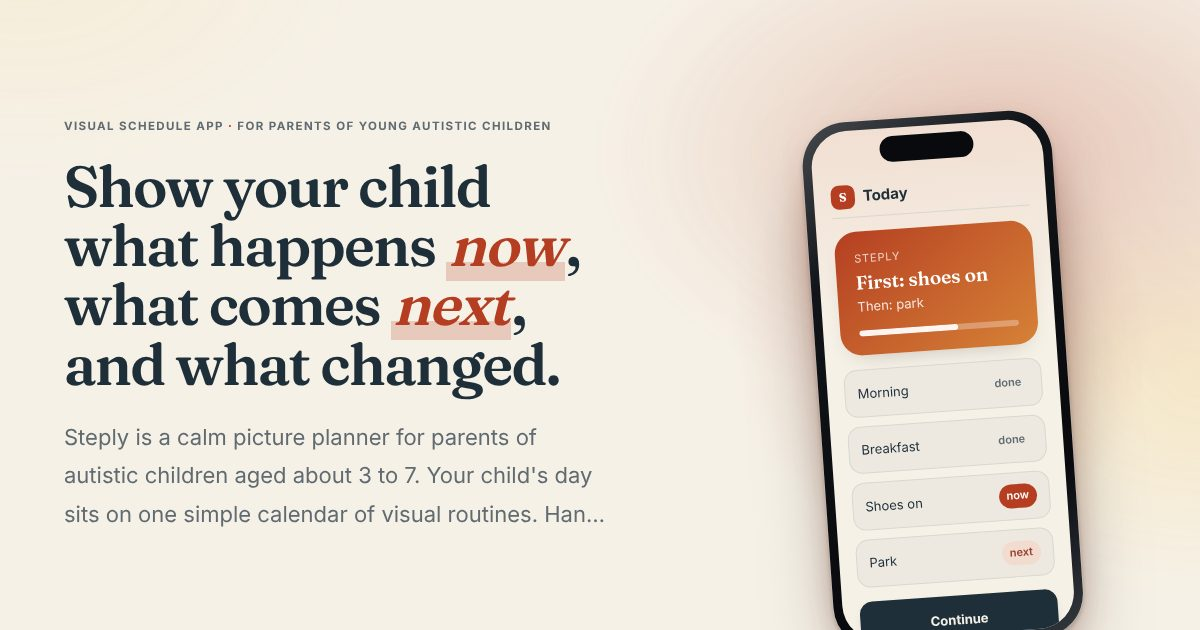
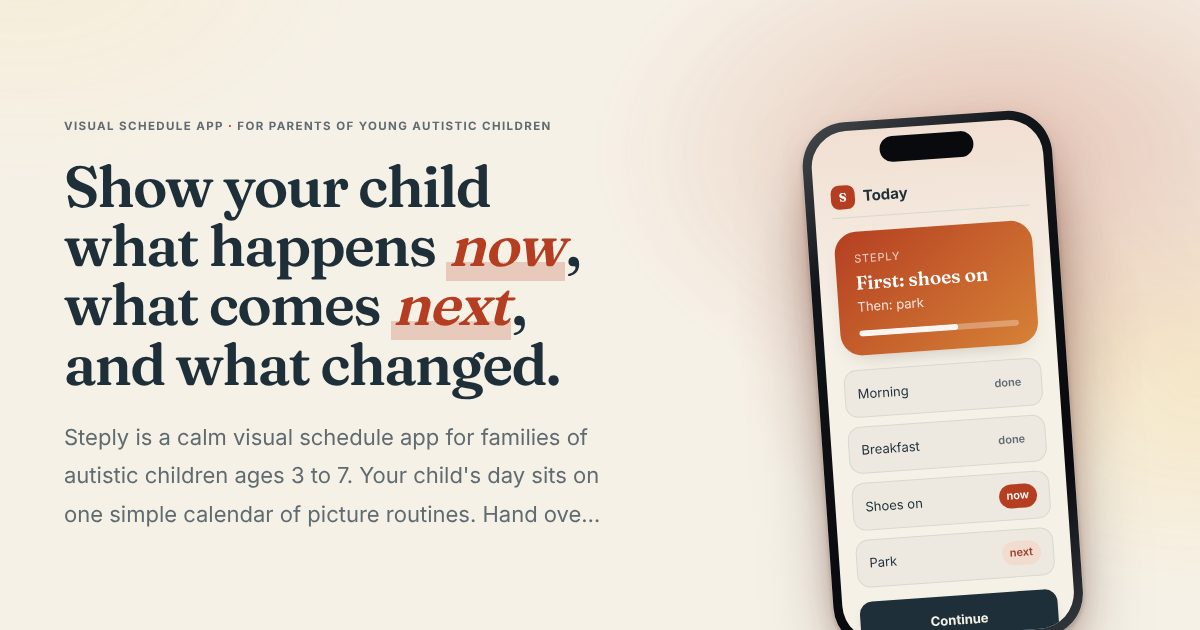
Steply page: apply ChatGPT review (clearer lead, three-step flow, privacy FAQ, softer First/Then guide)
Claude-Session: https://claude.ai/code/session_01BSVzQReT2EKvhQMmVc1ii1

Changed region(s): [[0.1542, 0.6635, 0.4933, 0.8444], [0.0617, 0.7841, 0.1233, 0.8444]]

diff --git a/steply/index.html b/steply/index.html
@@ -24,7 +24,7 @@
 <link rel="stylesheet" href="/assets/coming-soon.css">
 <link rel="icon" href="/assets/favicon.svg" type="image/svg+xml">
 <script type="application/ld+json">{"@context": "https://schema.org", "@type": "WebPage", "name": "Steply: visual schedule app for autistic children, with First/Then", "description": "A calm visual schedule app for parents of autistic children: picture routines on a daily calendar, First/Then boards in seconds and a Plan B when plans change.", "url": "https://nisico.eu/steply/", "inLanguage": "en", "isPartOf": {"@type": "WebSite", "name": "NISICO", "url": "https://nisico.eu/"}, "publisher": {"@type": "Organization", "name": "NISICO TECHNOLOGIES SRL", "url": "https://nisico.eu/", "email": "support@nisico.eu"}, "breadcrumb": {"@type": "BreadcrumbList", "itemListElement": [{"@type": "ListItem", "position": 1, "name": "NISICO", "item": "https://nisico.eu/"}, {"@type": "ListItem", "position": 2, "name": "Apps", "item": "https://nisico.eu/apps/"}, {"@type": "ListItem", "position": 3, "name": "Steply", "item": "https://nisico.eu/steply/"}]}}</script>
-<script type="application/ld+json">{"@context": "https://schema.org", "@type": "FAQPage", "mainEntity": [{"@type": "Question", "name": "Who is Steply for?", "acceptedAnswer": {"@type": "Answer", "text": "Parents of autistic children aged about 3 to 7, starting with routines at home. No diagnosis is needed: any family that uses picture schedules can use it."}}, {"@type": "Question", "name": "Does my child need an account or their own tablet?", "acceptedAnswer": {"@type": "Answer", "text": "No. Your child uses child mode on your phone or tablet, and a grown-up lock keeps settings closed. You do not need an account to start."}}, {"@type": "Question", "name": "What happens when the plan changes?", "acceptedAnswer": {"@type": "Answer", "text": "Swap one card for another, show a single Now card, or pick a ready Plan B such as a rainy day or a place that is closed. Your child sees what happens instead. On a day that falls apart, Reset the day lets you start again calmly, and your routines are kept."}}, {"@type": "Question", "name": "Which phones and tablets will it work on?", "acceptedAnswer": {"@type": "Answer", "text": "Steply is being built for iPhone, iPad and Android phones and tablets. It runs on the device you already have; no special tablet is needed."}}, {"@type": "Question", "name": "Will it cost money?", "acceptedAnswer": {"@type": "Answer", "text": "There will be a free version for everyday routines, with no ads. An optional paid plan with extras is planned, and you will always see the price before you pay anything."}}, {"@type": "Question", "name": "Can I print the pictures?", "acceptedAnswer": {"@type": "Answer", "text": "Yes. You can print picture cards and boards for the fridge, the school bag or a day without screens."}}, {"@type": "Question", "name": "Is my child's data private?", "acceptedAnswer": {"@type": "Answer", "text": "There are no ads and we never sell data. Your own photos stay on your phone, and Steply works without an account."}}]}</script>
+<script type="application/ld+json">{"@context": "https://schema.org", "@type": "FAQPage", "mainEntity": [{"@type": "Question", "name": "Who is Steply for?", "acceptedAnswer": {"@type": "Answer", "text": "Parents of autistic children ages 3 to 7, starting with routines at home. No diagnosis is needed: any family that uses picture schedules can use it."}}, {"@type": "Question", "name": "Does my child need an account or their own tablet?", "acceptedAnswer": {"@type": "Answer", "text": "No. Your child uses child mode on your phone or tablet, and a parent lock keeps settings closed. You do not need an account to start."}}, {"@type": "Question", "name": "What happens when the plan changes?", "acceptedAnswer": {"@type": "Answer", "text": "Swap one card for another, show a single Now card, or pick a ready Plan B such as a rainy day or a place that is closed. Your child sees what happens instead. On a day that falls apart, Reset the day lets you start again calmly, and your routines are kept."}}, {"@type": "Question", "name": "Which phones and tablets will it work on?", "acceptedAnswer": {"@type": "Answer", "text": "Steply is being built for iPhone, iPad and Android phones and tablets. It runs on the device you already have; no special tablet is needed."}}, {"@type": "Question", "name": "Will it cost money?", "acceptedAnswer": {"@type": "Answer", "text": "There will be a free version for everyday routines, with no ads. An optional paid plan with extras is planned, and you will always see the price before you pay anything."}}, {"@type": "Question", "name": "Can I print the pictures?", "acceptedAnswer": {"@type": "Answer", "text": "Yes. You can print picture cards and boards for the fridge, the backpack or a day without screens."}}, {"@type": "Question", "name": "Is my child's data private?", "acceptedAnswer": {"@type": "Answer", "text": "Your child does not need an account, and Steply works without one for you too. Photos you add stay on your phone. There are no ads and we never sell data. If you join the waitlist, we keep only your email, with our form provider, to send the launch email."}}]}</script>
 </head>
 <body class="soft" style="--bg:#F6F1E7;--ink:#1E2F3A;--accent:#B53E22;--accent2:#F2C14E;--display:var(--serif);--scheme:light">
 <a class="skip" href="#main">Skip to content</a>
@@ -39,7 +39,7 @@
   <div class="hero-copy">
     <p class="kicker">Visual schedule app <span>&middot;</span> For parents of young autistic children</p>
     <h1>Show your child what happens <em>now</em>, what comes <em>next</em>, and what changed.</h1>
-    <p class="lead">Steply is a calm picture planner for parents of autistic children aged about 3 to 7. Your child&#x27;s day sits on one simple calendar of visual routines. Hand over the screen and they see one step at a time. When the day goes off plan, a First / Then board or a ready Plan B is a few taps away.</p>
+    <p class="lead">Steply is a calm visual schedule app for families of autistic children ages 3 to 7. Your child&#x27;s day sits on one simple calendar of picture routines. Hand over the screen and they see one step at a time. When the day goes off plan, a First / Then board or a ready Plan B is a few taps away.</p>
     <form class="wl" data-app="Steply" data-slug="steply" novalidate>
   <div class="wl-row">
     <label class="sr" for="em1">Email address</label>
@@ -62,7 +62,7 @@
     <ul class="ps-rows"><li><span>Morning</span><b class="v-done">done</b></li><li><span>Breakfast</span><b class="v-done">done</b></li><li><span>Shoes on</span><b class="v-now">now</b></li><li><span>Park</span><b class="v-next">next</b></li></ul>
     <div class="ps-cta">Continue</div>
   </div>
-</div><div class="chips"><span class="chip c0"><svg class="ico sm" viewBox="0 0 24 24" aria-hidden="true"><rect x="4" y="5" width="16" height="15" rx="2"/><path d="M4 10h16M9 3v4M15 3v4"/></svg>The day, in pictures</span><span class="chip c1"><svg class="ico sm" viewBox="0 0 24 24" aria-hidden="true"><path d="M4 18h5v-5h5V8h6"/><circle cx="4" cy="18" r="1.5"/></svg>One step at a time</span></div></div>
+</div><div class="chips"><span class="chip c0"><svg class="ico sm" viewBox="0 0 24 24" aria-hidden="true"><rect x="4" y="5" width="16" height="15" rx="2"/><path d="M4 10h16M9 3v4M15 3v4"/></svg>Picture schedules for every routine</span><span class="chip c1"><svg class="ico sm" viewBox="0 0 24 24" aria-hidden="true"><path d="M4 18h5v-5h5V8h6"/><circle cx="4" cy="18" r="1.5"/></svg>One step at a time</span></div></div>
 </section>
 
 <section class="sec shots-sec" aria-labelledby="i-h">
@@ -72,12 +72,12 @@
 
 <section class="sec" aria-labelledby="f-h">
   <h2 id="f-h" class="sec-h">What Steply does</h2>
-  <div class="feats"><article class="feat"><svg class="ico" viewBox="0 0 24 24" aria-hidden="true"><rect x="4" y="5" width="16" height="15" rx="2"/><path d="M4 10h16M9 3v4M15 3v4"/></svg><h3>The day, in pictures</h3><p>Morning, school, bedtime: picture routines on one calm daily calendar. Hold a card and drag it to a new time.</p></article><article class="feat"><svg class="ico" viewBox="0 0 24 24" aria-hidden="true"><path d="M4 18h5v-5h5V8h6"/><circle cx="4" cy="18" r="1.5"/></svg><h3>One step at a time</h3><p>Your child sees one big picture and one Done button. Step names can be read aloud.</p></article><article class="feat"><svg class="ico" viewBox="0 0 24 24" aria-hidden="true"><path d="M4 8h13l-3-3M20 16H7l3 3"/></svg><h3>First / Then in seconds</h3><p>Pick two pictures, tap Show, and your child sees what happens now and what comes next.</p></article><article class="feat"><svg class="ico" viewBox="0 0 24 24" aria-hidden="true"><path d="M20 11a8 8 0 1 0-2.3 5.7"/><path d="M20 5v6h-6"/></svg><h3>A Plan B for hard days</h3><p>Rain, a closed place, a sick day: your child sees what happens instead. Swap one card or use a ready Plan B, and your routines stay safe.</p></article></div>
+  <div class="feats"><article class="feat"><svg class="ico" viewBox="0 0 24 24" aria-hidden="true"><rect x="4" y="5" width="16" height="15" rx="2"/><path d="M4 10h16M9 3v4M15 3v4"/></svg><h3>Picture schedules for every routine</h3><p>Morning, school, bedtime: picture routines on one calm daily calendar. Hold a card and drag it to a new time.</p></article><article class="feat"><svg class="ico" viewBox="0 0 24 24" aria-hidden="true"><path d="M4 18h5v-5h5V8h6"/><circle cx="4" cy="18" r="1.5"/></svg><h3>One step at a time</h3><p>Your child sees one big picture and one Done button. Step names can be read aloud.</p></article><article class="feat"><svg class="ico" viewBox="0 0 24 24" aria-hidden="true"><path d="M4 8h13l-3-3M20 16H7l3 3"/></svg><h3>First / Then in seconds</h3><p>Pick two pictures, tap Show, and your child sees what happens now and what comes next.</p></article><article class="feat"><svg class="ico" viewBox="0 0 24 24" aria-hidden="true"><path d="M20 11a8 8 0 1 0-2.3 5.7"/><path d="M20 5v6h-6"/></svg><h3>A Plan B for hard days</h3><p>Rain, a closed place, a sick day: your child sees what happens instead. Swap one card or use a ready Plan B; your usual routines are kept.</p></article></div>
 </section>
 
 <section class="sec" aria-labelledby="s-h">
   <h2 id="s-h" class="sec-h">How it works</h2>
-  <ol class="steps"><li><span class="n">1</span><h3>Pick a ready routine</h3><p>Start from ready-made routines for home, school and outings. Change any word or picture.</p></li><li><span class="n">2</span><h3>Add your own photos</h3><p>Your child&#x27;s own toothbrush, shoes and car. Photos stay on your phone.</p></li><li><span class="n">3</span><h3>Hand over the screen</h3><p>Child mode shows one step at a time. A grown-up lock keeps everything else closed.</p></li></ol>
+  <ol class="steps"><li><span class="n">1</span><h3>Set up the routine</h3><p>Start from a ready-made routine for home, school or outings and add photos of your child&#x27;s own things. Change any word or picture.</p></li><li><span class="n">2</span><h3>Show one step at a time</h3><p>Hand over the screen. Child mode shows one big step and a Done button; a parent lock keeps everything else closed.</p></li><li><span class="n">3</span><h3>Adjust when plans change</h3><p>Swap a card, show a First / Then, or pick a ready Plan B. Your child sees what happens instead.</p></li></ol>
 </section>
 
 <section class="sec honest" aria-labelledby="n-h">
@@ -90,7 +90,7 @@
 
 <section class="sec" aria-labelledby="q-h">
   <h2 id="q-h" class="sec-h">Questions</h2>
-  <div class="faq"><details><summary>Who is Steply for?</summary><p>Parents of autistic children aged about 3 to 7, starting with routines at home. No diagnosis is needed: any family that uses picture schedules can use it.</p></details><details><summary>Does my child need an account or their own tablet?</summary><p>No. Your child uses child mode on your phone or tablet, and a grown-up lock keeps settings closed. You do not need an account to start.</p></details><details><summary>What happens when the plan changes?</summary><p>Swap one card for another, show a single Now card, or pick a ready Plan B such as a rainy day or a place that is closed. Your child sees what happens instead. On a day that falls apart, Reset the day lets you start again calmly, and your routines are kept.</p></details><details><summary>Which phones and tablets will it work on?</summary><p>Steply is being built for iPhone, iPad and Android phones and tablets. It runs on the device you already have; no special tablet is needed.</p></details><details><summary>Will it cost money?</summary><p>There will be a free version for everyday routines, with no ads. An optional paid plan with extras is planned, and you will always see the price before you pay anything.</p></details><details><summary>Can I print the pictures?</summary><p>Yes. You can print picture cards and boards for the fridge, the school bag or a day without screens.</p></details><details><summary>Is my child&#x27;s data private?</summary><p>There are no ads and we never sell data. Your own photos stay on your phone, and Steply works without an account.</p></details></div>
+  <div class="faq"><details><summary>Who is Steply for?</summary><p>Parents of autistic children ages 3 to 7, starting with routines at home. No diagnosis is needed: any family that uses picture schedules can use it.</p></details><details><summary>Does my child need an account or their own tablet?</summary><p>No. Your child uses child mode on your phone or tablet, and a parent lock keeps settings closed. You do not need an account to start.</p></details><details><summary>What happens when the plan changes?</summary><p>Swap one card for another, show a single Now card, or pick a ready Plan B such as a rainy day or a place that is closed. Your child sees what happens instead. On a day that falls apart, Reset the day lets you start again calmly, and your routines are kept.</p></details><details><summary>Which phones and tablets will it work on?</summary><p>Steply is being built for iPhone, iPad and Android phones and tablets. It runs on the device you already have; no special tablet is needed.</p></details><details><summary>Will it cost money?</summary><p>There will be a free version for everyday routines, with no ads. An optional paid plan with extras is planned, and you will always see the price before you pay anything.</p></details><details><summary>Can I print the pictures?</summary><p>Yes. You can print picture cards and boards for the fridge, the backpack or a day without screens.</p></details><details><summary>Is my child&#x27;s data private?</summary><p>Your child does not need an account, and Steply works without one for you too. Photos you add stay on your phone. There are no ads and we never sell data. If you join the waitlist, we keep only your email, with our form provider, to send the launch email.</p></details></div>
 </section>
 
 <section class="sec" aria-labelledby="g-h">

diff --git a/steply/guides/first-then-board/index.html b/steply/guides/first-then-board/index.html
@@ -38,15 +38,15 @@
   <h1>First/Then board: what it is and how to use it with your child</h1>
   <p class="a-lead">What a First/Then board is, how to make one on paper or a phone, how to use it step by step, and the common mistakes that make it stop working.</p>
   <p class="a-meta">By the Steply team &middot; Updated <time datetime="2026-11-02">2026-11-02</time></p>
-  <article class="prose"><p>A First/Then board is a simple visual support with two pictures side by side: on the left, what your child does first; on the right, what happens then. "First shoes, then park." It shows a young or autistic child, in a way they can see rather than only hear, that the less-wanted task is short and that something they want comes right after. To use it well, put the less-preferred task first and something your child really wants second, say only a few words, follow through every time, and remove the first card as soon as it is done.</p>
+  <article class="prose"><p>A First/Then board is a simple visual support with two pictures side by side. The First picture shows what is happening now; the Then picture shows what is planned next, for example "First shoes, then park." It makes the order of everyday activities visible, so your child can see it instead of only hearing it. It tends to work best when the first card is short, the second is something your child looks forward to, the pictures and words are ones your child understands, and the "then" really happens.</p>
 
 <p>First/Then is one of the visual schedule types described in the <a href="https://afirm.fpg.unc.edu/wp-content/uploads/Visual-Supports-Brief-Packet.pdf">AFIRM visual supports module</a> from the University of North Carolina: "the sequencing of two events to help a student understand what comes next." Visual supports as a whole are recognized as an evidence-based practice for autistic children in the <a href="https://ncaep.fpg.unc.edu/wp-content/uploads/EBP-Report-2020.pdf">2020 NCAEP review</a>. Below is how to make one, how to use it day to day, and the mistakes that make it stop working.</p>
 
 <h2>Why a First/Then board helps</h2>
 <ul>
-<li><strong>It answers "what next?"</strong> Many autistic children find the unknown hard. A <a href="https://pubmed.ncbi.nlm.nih.gov/32564625/">2020 review</a> found a consistent link between anxiety and finding uncertainty hard to tolerate in autistic people. A board makes the next moment certain.</li>
+<li><strong>It answers "what next?"</strong> Many autistic children find the unknown hard. A <a href="https://pubmed.ncbi.nlm.nih.gov/32564625/">2020 review</a> found a consistent link between anxiety and finding uncertainty hard to tolerate in autistic people. A board shows what comes next.</li>
 <li><strong>It lasts longer than words.</strong> A spoken instruction is gone in a second; a picture stays there while your child is thinking.</li>
-<li><strong>It shows the end of the hard part.</strong> The "then" card tells your child the task is not forever.</li>
+<li><strong>It shows the end of the hard part.</strong> The "then" card shows that the hard part has an end.</li>
 <li><strong>It is fast.</strong> Two cards take seconds to set up, which makes it easy to use in the middle of the day.</li>
 </ul>
 
@@ -61,13 +61,15 @@
 <h3>On a phone or tablet</h3>
 <p>A phone is handy when you are out, or when you need a picture you do not have on paper. You can take a photo of the real thing, such as the shop entrance or your car, in a few seconds. In a <a href="https://pubmed.ncbi.nlm.nih.gov/28452230/">study comparing book and tablet schedules</a>, children learned at similar speeds with both, and preferences varied from child to child, so use whichever works for yours.</p>
 
+<div class="callout">Want to make a First/Then board on your phone? Steply is being built to let you pick two pictures or your own photos and show a simple First/Then on your child's screen. <a href="/steply/#i-h">See what Steply looks like</a>.</div>
+
 <h2>How to use it, step by step</h2>
 <ol>
-<li><strong>Get your child's attention first.</strong> Go to them, get down to their level, and hold the board where they can see it.</li>
+<li><strong>Bring the board to your child.</strong> Hold it where they can see it, in the way that works for them.</li>
 <li><strong>Point and say it short.</strong> Point to each card: "First shoes. Then park." Avoid long explanations.</li>
-<li><strong>Help with the first task as needed.</strong> Guide, model or do it together. The board is not a test.</li>
+<li><strong>Do the first task together if needed.</strong> Show, help or do it side by side. The board is support, not a test, and it is fine to adapt it to your child.</li>
 <li><strong>Mark it done.</strong> Remove or flip the "first" card, or let your child tap Done. Seeing it disappear matters.</li>
-<li><strong>Deliver the "then" straight away.</strong> If the park was promised, go to the park. Keeping this promise is what gives the board its meaning.</li>
+<li><strong>Keep the board true.</strong> If the park is on the board, go to the park. If plans change, update the Then picture first and show the change in a way your child understands.</li>
 </ol>
 <div class="callout">Only put on the "then" card something you can actually give right after. A "then" that does not happen teaches your child that the board cannot be trusted.</div>
 
@@ -99,9 +101,10 @@
 <p>Once your child knows the board, you can add a third card ("first, then, then"), and later move to a full routine schedule. Our guide on <a href="/steply/guides/how-to-make-a-visual-schedule-for-an-autistic-child/">how to make a visual schedule for an autistic child</a> explains that next step.</p>
 
 <h2>How Steply helps</h2>
-<p>In Steply, a First/Then board takes a few taps: pick two pictures from the built-in set or take a photo, tap Show, and your child sees "First" with a big Done button and "Then" waiting underneath. The step names can be read aloud, recent boards are one tap away on your Today screen, and you can print cards for the fridge. Steply is a tool for showing the plan, not therapy. Join the waitlist below to hear when it launches.</p></article>
+<p>In Steply, a First/Then board takes a few taps: pick two pictures from the built-in set or take a photo, tap Show, and your child sees "First" with a big Done button and "Then" waiting underneath. The step names can be read aloud, recent boards are one tap away on your Today screen, and you can print cards for the fridge. Steply is a tool for showing the plan, not therapy. Join the waitlist below to hear when it launches.</p>
+<p>The research linked in this guide is about visual supports in general. None of the organizations or authors cited has reviewed or endorsed Steply.</p></article>
   <section class="sources"><h2>Sources</h2><ol><li><a href="https://afirm.fpg.unc.edu/wp-content/uploads/Visual-Supports-Brief-Packet.pdf" rel="noopener">AFIRM (UNC): Visual Supports brief packet</a></li><li><a href="https://ncaep.fpg.unc.edu/wp-content/uploads/EBP-Report-2020.pdf" rel="noopener">NCAEP (UNC Frank Porter Graham): Evidence-Based Practices for Children, Youth, and Young Adults with Autism, 2020</a></li><li><a href="https://pubmed.ncbi.nlm.nih.gov/32564625/" rel="noopener">Jenkinson, Milne &amp; Thompson (2020): Intolerance of uncertainty and anxiety in autism, systematic review and meta-analysis, Autism</a></li><li><a href="https://pubmed.ncbi.nlm.nih.gov/28452230/" rel="noopener">Giles &amp; Markham (2017): Comparing book- and tablet-based picture activity schedules, Behavior Modification</a></li><li><a href="https://pubmed.ncbi.nlm.nih.gov/19949517/" rel="noopener">Waters, Lerman &amp; Hovanetz (2009): Visual schedules and transition-related problem behavior, J Appl Behav Anal</a></li></ol></section>
-  <section class="a-cta" id="join"><h2>Steply: Show your child what happens now, what comes next, and what changed.</h2><p>Steply is a calm picture planner for parents of autistic children aged about 3 to 7. Your child&#x27;s day sits on one simple calendar of visual routines. Hand over the screen and they see one step at a time. When the day goes off plan, a First / Then board or a ready Plan B is a few taps away.</p><form class="wl" data-app="Steply" data-slug="steply" novalidate>
+  <section class="a-cta" id="join"><h2>Steply: Show your child what happens now, what comes next, and what changed.</h2><p>Steply is a calm visual schedule app for families of autistic children ages 3 to 7. Your child&#x27;s day sits on one simple calendar of picture routines. Hand over the screen and they see one step at a time. When the day goes off plan, a First / Then board or a ready Plan B is a few taps away.</p><form class="wl" data-app="Steply" data-slug="steply" novalidate>
   <div class="wl-row">
     <label class="sr" for="em3">Email address</label>
     <input id="em3" type="email" name="email" autocomplete="email" inputmode="email" placeholder="you@example.com" required aria-describedby="note3 err3">

diff --git a/steply/guides/how-to-make-a-visual-schedule-for-an-autistic-child/index.html b/steply/guides/how-to-make-a-visual-schedule-for-an-autistic-child/index.html
@@ -112,9 +112,10 @@
 <p>If routines regularly end in long meltdowns, self-injury, or your child seems in pain or very anxious, talk to your child's doctor, occupational therapist, speech-language therapist or behavior specialist. A visual schedule can support their plan, but it does not replace it.</p>
 
 <h2>How Steply helps</h2>
-<p>We are building Steply so parents can do all of the above on a phone in a few minutes: start from a ready-made routine, swap in your own photos, and hand over a calm child screen that shows one step at a time with a Done button. Pictures can be printed for the fridge too. Steply is a tool for showing the plan; it is not therapy and does not promise results. If that sounds useful, join the waitlist below.</p></article>
+<p>We are building Steply so parents can do all of the above on a phone in a few minutes: start from a ready-made routine, swap in your own photos, and hand over a calm child screen that shows one step at a time with a Done button. Pictures can be printed for the fridge too. Steply is a tool for showing the plan; it is not therapy and does not promise results. If that sounds useful, join the waitlist below.</p>
+<p>The research linked in this guide is about visual supports in general. None of the organizations or authors cited has reviewed or endorsed Steply.</p></article>
   <section class="sources"><h2>Sources</h2><ol><li><a href="https://ncaep.fpg.unc.edu/wp-content/uploads/EBP-Report-2020.pdf" rel="noopener">NCAEP (UNC Frank Porter Graham): Evidence-Based Practices for Children, Youth, and Young Adults with Autism, 2020</a></li><li><a href="https://www.nice.org.uk/guidance/cg170/chapter/Recommendations" rel="noopener">NICE CG170: Autism spectrum disorder in under 19s, support and management, recommendations</a></li><li><a href="https://afirm.fpg.unc.edu/wp-content/uploads/Visual-Supports-Brief-Packet.pdf" rel="noopener">AFIRM (UNC): Visual Supports brief packet</a></li><li><a href="https://link.springer.com/article/10.1007/s10803-014-2201-z" rel="noopener">Knight, Sartini &amp; Spriggs (2015): Evaluating visual activity schedules as evidence-based practice, J Autism Dev Disord</a></li><li><a href="https://pubmed.ncbi.nlm.nih.gov/24916452/" rel="noopener">Hartley &amp; Allen (2015): Iconicity influences how minimally verbal children with autism use pictures as symbols, Autism</a></li><li><a href="https://pubmed.ncbi.nlm.nih.gov/28452230/" rel="noopener">Giles &amp; Markham (2017): Comparing book- and tablet-based picture activity schedules, Behavior Modification</a></li><li><a href="https://pubmed.ncbi.nlm.nih.gov/40392102/" rel="noopener">Hammond et al. (2025): Systematic review of digital activity schedule use in autism and intellectual disability, J Intellect Dev Disabil</a></li><li><a href="https://pmc.ncbi.nlm.nih.gov/articles/PMC1297722/" rel="noopener">MacDuff, Krantz &amp; McClannahan (1993): Teaching children with autism to use photographic activity schedules, J Appl Behav Anal</a></li></ol></section>
-  <section class="a-cta" id="join"><h2>Steply: Show your child what happens now, what comes next, and what changed.</h2><p>Steply is a calm picture planner for parents of autistic children aged about 3 to 7. Your child&#x27;s day sits on one simple calendar of visual routines. Hand over the screen and they see one step at a time. When the day goes off plan, a First / Then board or a ready Plan B is a few taps away.</p><form class="wl" data-app="Steply" data-slug="steply" novalidate>
+  <section class="a-cta" id="join"><h2>Steply: Show your child what happens now, what comes next, and what changed.</h2><p>Steply is a calm visual schedule app for families of autistic children ages 3 to 7. Your child&#x27;s day sits on one simple calendar of picture routines. Hand over the screen and they see one step at a time. When the day goes off plan, a First / Then board or a ready Plan B is a few taps away.</p><form class="wl" data-app="Steply" data-slug="steply" novalidate>
   <div class="wl-row">
     <label class="sr" for="em3">Email address</label>
     <input id="em3" type="email" name="email" autocomplete="email" inputmode="email" placeholder="you@example.com" required aria-describedby="note3 err3">

diff --git a/steply/guides/autistic-child-change-of-plans/index.html b/steply/guides/autistic-child-change-of-plans/index.html
@@ -102,9 +102,10 @@
 <p>If changes often lead to long meltdowns, self-injury or very high anxiety, or if your child's distress is growing, speak with your child's doctor, an occupational therapist, a psychologist or a behavior specialist. They can look at what drives the distress for your child and build a plan that fits. Visual supports can be part of that plan, but they are not a treatment on their own.</p>
 
 <h2>How Steply helps</h2>
-<p>Steply was designed around this moment. When the plan changes, you can swap one card for another and your child sees the new card in the same place, show a single "Now" card, or pick a ready Plan B such as "Rainy day" or "Place is closed". If the whole day goes wrong, "Reset the day" starts again calmly without losing your routines. It is a tool for showing the plan, not therapy, and it does not promise fewer meltdowns. Join the waitlist below to hear when it launches.</p></article>
+<p>Steply was designed around this moment. When the plan changes, you can swap one card for another and your child sees the new card in the same place, show a single "Now" card, or pick a ready Plan B such as "Rainy day" or "Place is closed". If the whole day goes wrong, "Reset the day" starts again calmly without losing your routines. It is a tool for showing the plan, not therapy, and it does not promise fewer meltdowns. Join the waitlist below to hear when it launches.</p>
+<p>The research linked in this guide is about visual supports in general. None of the organizations or authors cited has reviewed or endorsed Steply.</p></article>
   <section class="sources"><h2>Sources</h2><ol><li><a href="https://pubmed.ncbi.nlm.nih.gov/32564625/" rel="noopener">Jenkinson, Milne &amp; Thompson (2020): Intolerance of uncertainty and anxiety in autism, systematic review and meta-analysis, Autism</a></li><li><a href="https://www.nice.org.uk/guidance/cg170/chapter/Recommendations" rel="noopener">NICE CG170: Autism spectrum disorder in under 19s, support and management, recommendations</a></li><li><a href="https://ncaep.fpg.unc.edu/wp-content/uploads/EBP-Report-2020.pdf" rel="noopener">NCAEP (UNC Frank Porter Graham): Evidence-Based Practices for Children, Youth, and Young Adults with Autism, 2020</a></li><li><a href="https://pubmed.ncbi.nlm.nih.gov/16033169/" rel="noopener">Cote, Thompson &amp; McKerchar (2005): Antecedent interventions and toddlers&#x27; compliance during transitions, J Appl Behav Anal</a></li><li><a href="https://pubmed.ncbi.nlm.nih.gov/16602389/" rel="noopener">Wilder et al. (2006): Tantrums associated with transitions in preschool children, J Appl Behav Anal</a></li><li><a href="https://link.springer.com/article/10.1007/s40617-014-0014-3" rel="noopener">Brewer et al. (2014): Advance notice for transition-related problem behavior, practice guidelines, Behav Anal Pract</a></li></ol></section>
-  <section class="a-cta" id="join"><h2>Steply: Show your child what happens now, what comes next, and what changed.</h2><p>Steply is a calm picture planner for parents of autistic children aged about 3 to 7. Your child&#x27;s day sits on one simple calendar of visual routines. Hand over the screen and they see one step at a time. When the day goes off plan, a First / Then board or a ready Plan B is a few taps away.</p><form class="wl" data-app="Steply" data-slug="steply" novalidate>
+  <section class="a-cta" id="join"><h2>Steply: Show your child what happens now, what comes next, and what changed.</h2><p>Steply is a calm visual schedule app for families of autistic children ages 3 to 7. Your child&#x27;s day sits on one simple calendar of picture routines. Hand over the screen and they see one step at a time. When the day goes off plan, a First / Then board or a ready Plan B is a few taps away.</p><form class="wl" data-app="Steply" data-slug="steply" novalidate>
   <div class="wl-row">
     <label class="sr" for="em3">Email address</label>
     <input id="em3" type="email" name="email" autocomplete="email" inputmode="email" placeholder="you@example.com" required aria-describedby="note3 err3">
